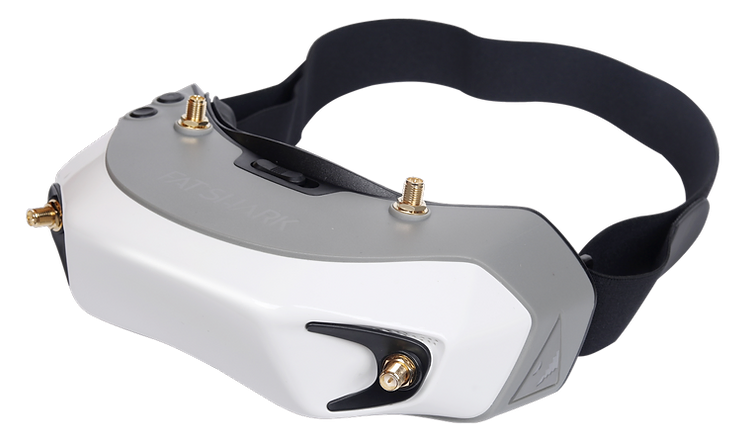
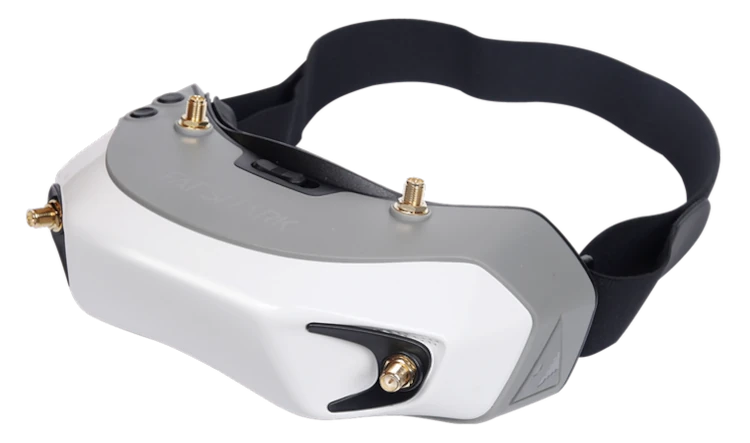
fix image scaling

diff --git a/src/03_decisions/030_video_systems/034_digital_caddx.md b/src/03_decisions/030_video_systems/034_digital_caddx.md
@@ -26,10 +26,11 @@ Die Hardware-Auswahl ist bei den Video-Sendern sehr überschaubar, es gibt:
 - einen VTX für größere Fluggeräte mit mehr Gewicht und bis zu 1200mw Sendeleistung
 - einen VTX für leichte Fluggeräte mit bis zu 400mw Sendeleistung
 
-| Sender                                                 |
-| ------------------------------------------------------ |
-| ![Walksnail VTX](/img/caddx/avatar_vtx_micro_cam.webp) |
-| ![Walksnail 1S VTX](/img/caddx/avatar_mini_vtx.png)    |
+Beide Sender haben den gleichen Formfaktor und einen Lochabstand von 25,6x25,6. Sie unterscheiden sich dadurch, wie viel Eingangsspannung sie vertragen sowie durch die Kühlkörper und die damit verbundene Sendeleistung
+
+| Full-Size (2-6S)                                       | Whoop (1S)                                          |
+| ------------------------------------------------------ | --------------------------------------------------- |
+| ![Walksnail VTX](/img/caddx/avatar_vtx_micro_cam.webp) | ![Walksnail 1S VTX](/img/caddx/avatar_mini_vtx.png) |
 
 ## Kamera
 
